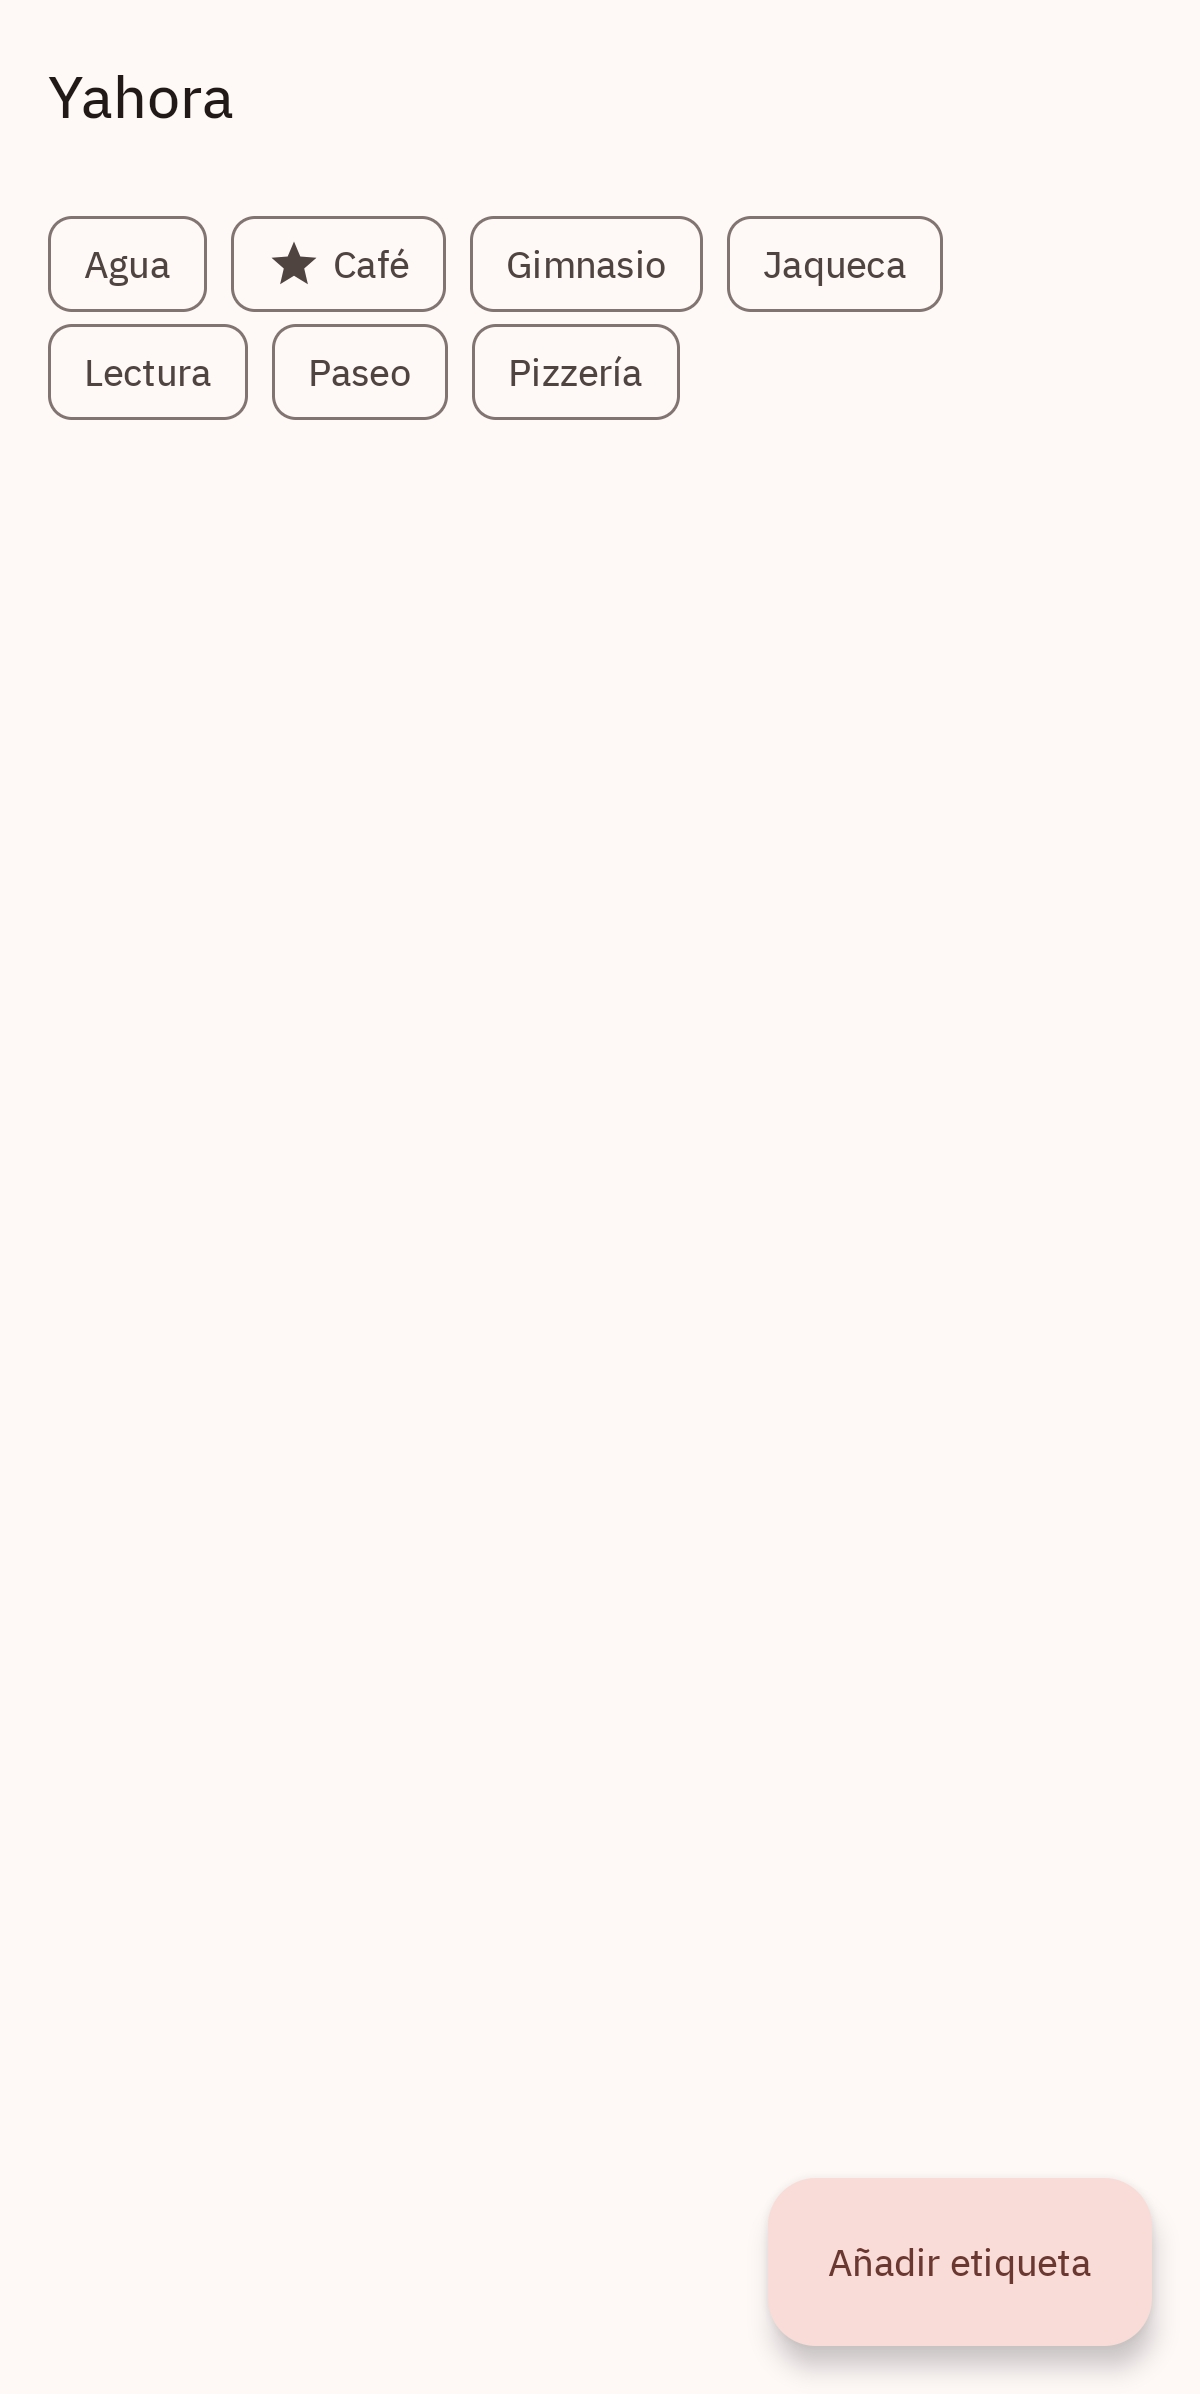
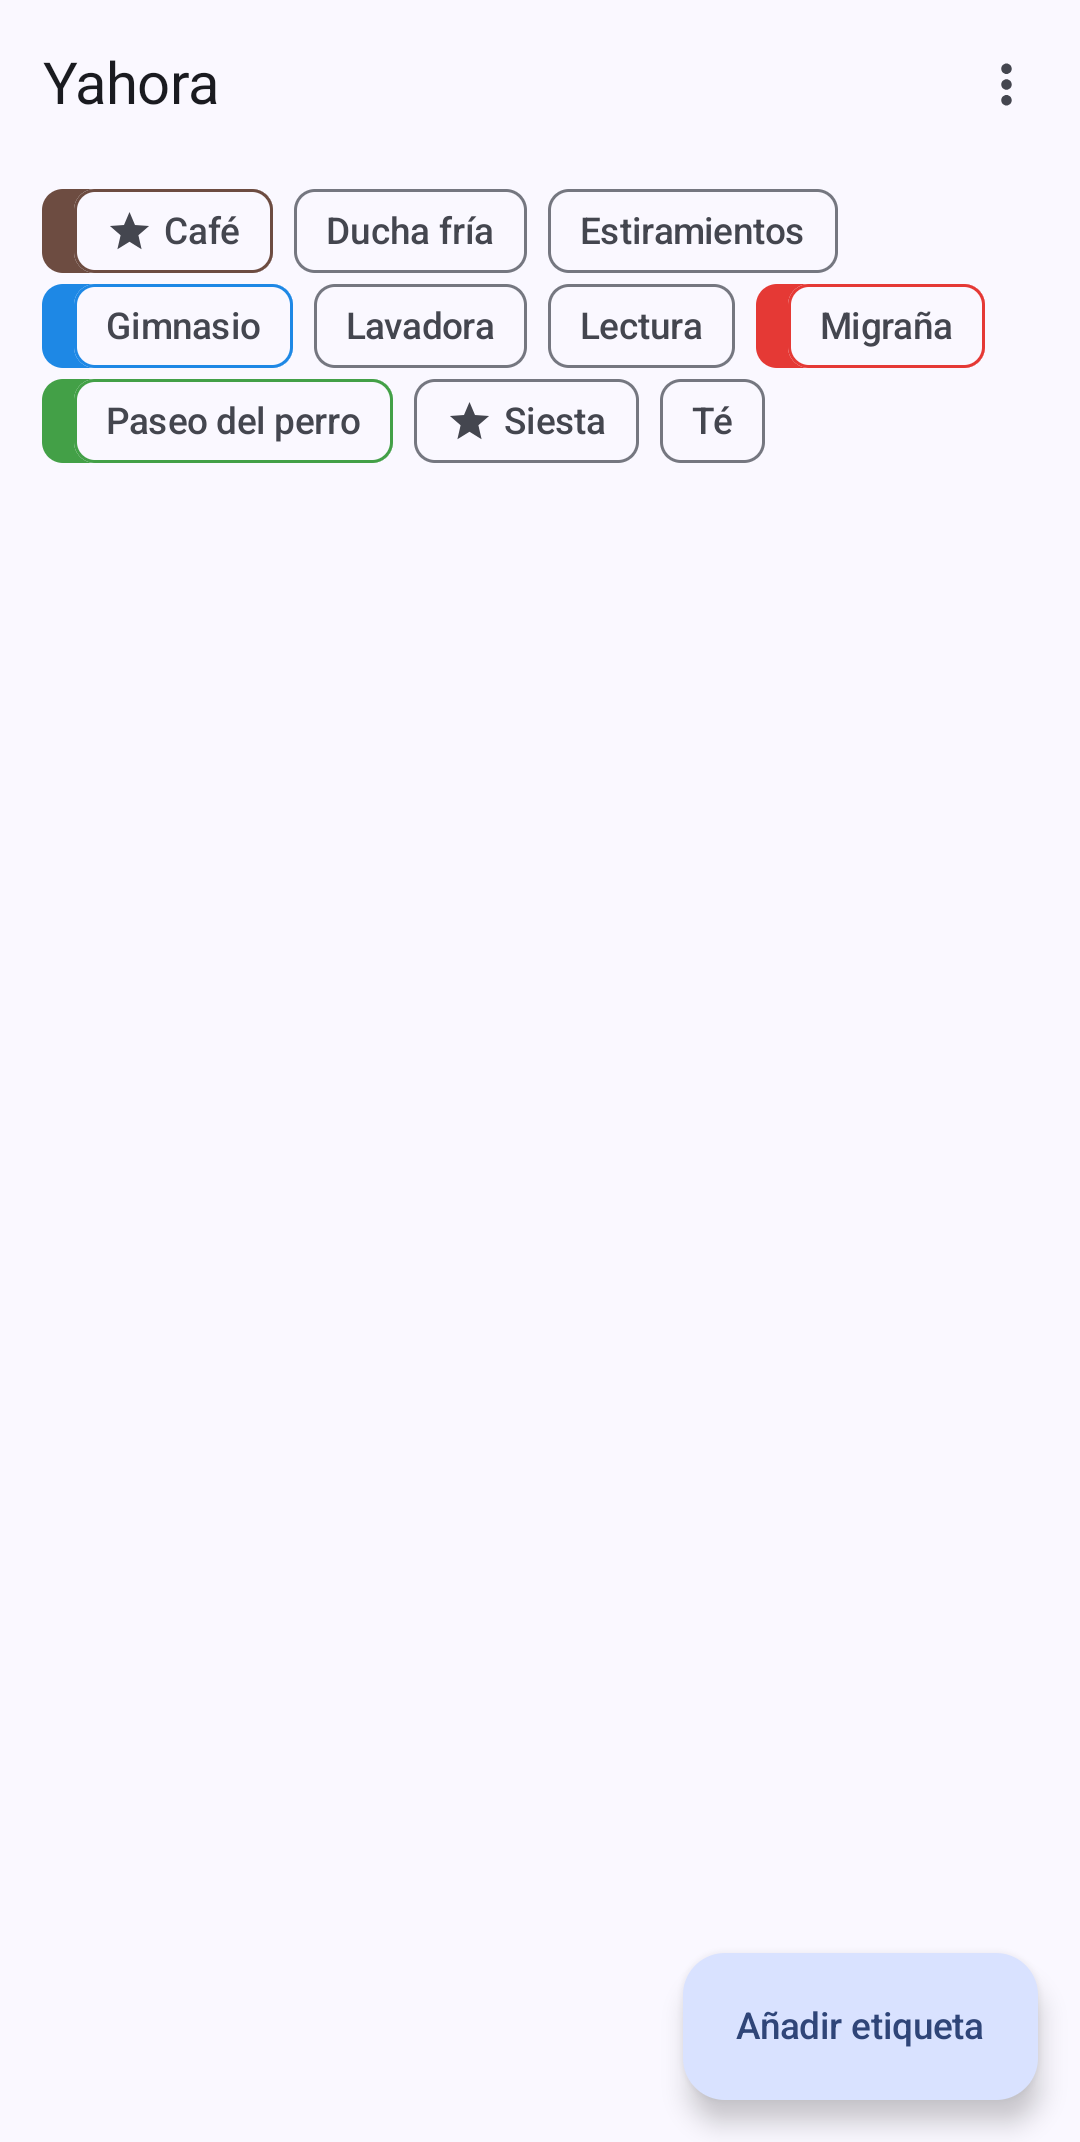
Retake the listing screenshots for 0.2.0
The cloud showed no colours, the tag menu had no colour entry, the history's
months only counted days, and the statistics screen was not shown at all.
Every screen is retaken in both locales, and the statistics join them with
two tags picked in the filter, so the totals show.

They come from an emulator now, which keeps a real log away from a seeding
script that empties the database, and gives the same frame every time. The
demo data gives four tags a colour, one of them a favourite, so plain and
coloured chips sit side by side. The debug-only "Delete with its entries"
was kept out of the menu shot, since the release never offers it; the README
says how.

Changed region(s): [[0.0306, 0.0308, 0.8861, 0.2157], [0.6111, 0.8936, 0.9778, 0.986], [0.9167, 0.0308, 0.9472, 0.0616]]

diff --git a/tools/seed-demo-data.py b/tools/seed-demo-data.py
@@ -67,31 +67,36 @@ PROFILES = {
     "none": None,
 }
 
-# (name, is_favorite, profile). Neither favourite is first in the alphabet, so a
-# screenshot shows what the spec promises: the star changes the emphasis, never
-# the order.
+# Tag colours, as the app stores them: ARGB packed into a signed 32-bit int.
+# A handful only, so the cloud shows coloured and plain chips side by side, and
+# one favourite carries both a star and a colour.
+BROWN, BLUE, RED, GREEN = 0xFF6D4C41, 0xFF1E88E5, 0xFFE53935, 0xFF43A047
+
+# (name, is_favorite, profile[, colour]). Neither favourite is first in the
+# alphabet, so a screenshot shows what the spec promises: the star changes the
+# emphasis, never the order.
 TAGS = {
     "en": [
-        ("Coffee", True, "several_daily"),
+        ("Coffee", True, "several_daily", BROWN),
         ("Cold shower", False, "most_days"),
-        ("Gym", False, "thrice_weekly"),
+        ("Gym", False, "thrice_weekly", BLUE),
         ("Laundry", False, "weekly"),
-        ("Migraine", False, "rare"),
+        ("Migraine", False, "rare", RED),
         ("Nap", True, "occasional"),
         ("Reading", False, "none"),
         ("Stretch", False, "none"),
         ("Tea", False, "occasional"),
-        ("Walk the dog", False, "twice_daily"),
+        ("Walk the dog", False, "twice_daily", GREEN),
     ],
     "es": [
-        ("Café", True, "several_daily"),
+        ("Café", True, "several_daily", BROWN),
         ("Ducha fría", False, "most_days"),
         ("Estiramientos", False, "none"),
-        ("Gimnasio", False, "thrice_weekly"),
+        ("Gimnasio", False, "thrice_weekly", BLUE),
         ("Lavadora", False, "weekly"),
         ("Lectura", False, "none"),
-        ("Migraña", False, "rare"),
-        ("Paseo del perro", False, "twice_daily"),
+        ("Migraña", False, "rare", RED),
+        ("Paseo del perro", False, "twice_daily", GREEN),
         ("Siesta", True, "occasional"),
         ("Té", False, "occasional"),
     ],
@@ -105,6 +110,11 @@ def normalize(name):
     would let a duplicate through the very check the schema exists to enforce.
     """
     return name.strip().lower()
+
+
+def signed(argb):
+    """ARGB as Kotlin's Int sees it: anything with alpha set is negative."""
+    return argb - (1 << 32) if argb >= (1 << 31) else argb
 
 
 def quote(text):
@@ -155,11 +165,12 @@ def sql(locale, weeks, clear):
         # which is the invariant doing its job, not a bug in this script.
         lines += ["DELETE FROM entries;", "DELETE FROM tags;"]
 
-    for name, favorite, profile in TAGS[locale]:
+    for name, favorite, profile, *colour in TAGS[locale]:
         key = normalize(name)
+        color = str(signed(colour[0])) if colour else "NULL"
         lines.append(
-            "INSERT INTO tags (name, is_favorite, name_key) VALUES "
-            f"({quote(name)}, {1 if favorite else 0}, {quote(key)});"
+            "INSERT INTO tags (name, is_favorite, name_key, color) VALUES "
+            f"({quote(name)}, {1 if favorite else 0}, {quote(key)}, {color});"
         )
 
         moments = timestamps(profile, weeks, rng)

diff --git a/README.md b/README.md
@@ -90,13 +90,20 @@ drawables, and `tools/render-feature-graphic.py` composes the 1024x500 feature
 graphic Google Play asks for from that same vector plus each locale's title and
 tagline.
 
-Screenshots come from a real device carrying a history that was written into a
+Screenshots come from an emulator carrying a history that was written into a
 debug build's database: the tree groups entries by month and day, and timestamps
 are never editable, so an install tapped into existence this afternoon has
 nothing to show. `tools/seed-demo-data.py` is the quickest way to get one — a
-fixed-seed history, so the same run weeks later still matches the screenshots it
-produced. They are then cropped with `tools/crop-screenshot.py`, which takes the
-phone's status and navigation bars off.
+fixed-seed history, with a few coloured tags, so the same run weeks later still
+matches the screenshots it produced. An emulator rather than a phone keeps a
+real log out of harm's way, since `--clear` empties the database, and gives the
+same frame every time. A debug build offers "Delete with its entries", which
+the release does not, so build the one used for screenshots with
+`canPurgeTags = false` in `MainActivity` and leave that change uncommitted. The
+Spanish captures need no change of system language: `adb shell cmd locale
+set-app-locales com.podxboq.yahora --locales es-ES` switches the app alone. The
+images are then cropped with `tools/crop-screenshot.py`, which takes the
+status and navigation bars off.
 
 The project pages at <https://podxboq.github.io/yahora/> are served by GitHub
 Pages from `docs/` in this repository, and exist because Google Play asks for
